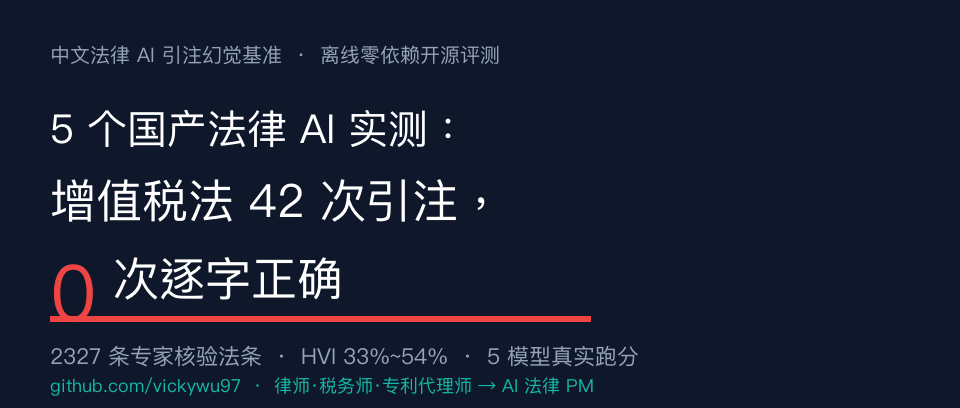
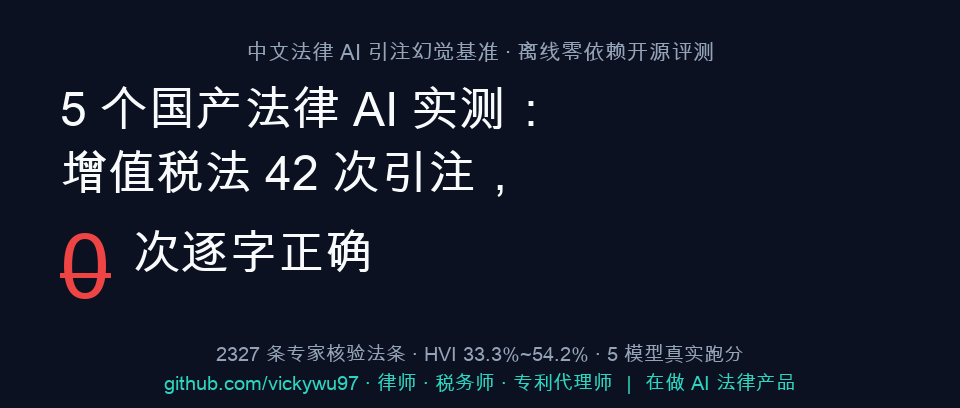
docs/fix: 同步 PORTFOLIO_SUMMARY 数字至 v1.3(33.3%-54.2%)；修正所有对外文案口径为'在做 AI 法律产品'；重生成封面图

diff --git a/scripts/regenerate_covers.py b/scripts/regenerate_covers.py
@@ -1,0 +1,253 @@
+#!/usr/bin/env python3
+"""Regenerate social cover images for legal-hallucination-bench.
+
+Uses only stdlib + Pillow. Fonts searched in common macOS / Linux paths.
+Output: docs/zhihu_cover.png (1200x675), docs/wechat_cover.png (960x408)
+"""
+from __future__ import annotations
+
+import os
+from pathlib import Path
+from typing import Tuple
+
+try:
+    from PIL import Image, ImageDraw, ImageFont
+except ImportError as exc:  # pragma: no cover
+    raise SystemExit(
+        "Pillow is required: "
+        "/Users/vickywu/.workbuddy/binaries/python/versions/3.13.12/bin/python3 -m pip install Pillow"
+    ) from exc
+
+
+REPO = Path(__file__).resolve().parent.parent
+OUT_DIR = REPO / "docs"
+
+# Color palette (approximates the existing dark-cover style)
+BG = "#0b1120"
+TEXT_WHITE = "#f8fafc"
+TEXT_GRAY = "#94a3b8"
+ACCENT_RED = "#ef4444"
+ACCENT_CYAN = "#2dd4bf"
+
+
+def find_font(preferred: Tuple[str, ...] = ()) -> str:
+    candidates = list(preferred) + [
+        "/System/Library/Fonts/Supplemental/Arial Unicode.ttf",
+        "/Library/Fonts/Arial Unicode.ttf",
+        "/usr/share/fonts/truetype/arialuni.ttf",
+        "/usr/share/fonts/truetype/dejavu/DejaVuSans.ttf",
+    ]
+    for path in candidates:
+        if path and os.path.isfile(path):
+            return path
+    raise FileNotFoundError("No usable font found for CJK rendering")
+
+
+def load_font(size: int) -> ImageFont.FreeTypeFont:
+    return ImageFont.truetype(find_font(), size)
+
+
+def draw_text_centered(
+    draw: ImageDraw.ImageDraw,
+    text: str,
+    x: int,
+    y: int,
+    font: ImageFont.FreeTypeFont,
+    fill: str,
+    anchor: str = "lm",
+) -> Tuple[int, int, int, int]:
+    bbox = draw.textbbox((0, 0), text, font=font)
+    w, h = bbox[2] - bbox[0], bbox[3] - bbox[1]
+    if anchor == "lm":
+        x0, y0 = x, y - h // 2
+    elif anchor == "mm":
+        x0, y0 = x - w // 2, y - h // 2
+    elif anchor == "rm":
+        x0, y0 = x - w, y - h // 2
+    else:
+        x0, y0 = x, y
+    draw.text((x0, y0), text, font=font, fill=fill)
+    return x0, y0, x0 + w, y0 + h
+
+
+def generate_zhihu(path: Path) -> None:
+    width, height = 1200, 675
+    img = Image.new("RGB", (width, height), BG)
+    draw = ImageDraw.Draw(img)
+
+    # Top header
+    font_header = load_font(28)
+    draw_text_centered(
+        draw,
+        "中文法律 AI 引注幻觉基准 · 离线零依赖开源评测",
+        width // 2,
+        70,
+        font_header,
+        TEXT_GRAY,
+        anchor="mm",
+    )
+
+    # Main title lines
+    font_title = load_font(74)
+    font_zero = load_font(140)
+    font_suffix = load_font(74)
+
+    y = 160
+    draw_text_centered(
+        draw,
+        "5 个国产法律 AI 实测：",
+        80,
+        y,
+        font_title,
+        TEXT_WHITE,
+        anchor="lm",
+    )
+    y += 100
+    draw_text_centered(
+        draw,
+        "增值税法 42 次引注，",
+        80,
+        y,
+        font_title,
+        TEXT_WHITE,
+        anchor="lm",
+    )
+
+    # Big red 0 line
+    y += 110
+    zero_text = "0"
+    suffix_text = " 次逐字正确"
+    x_cursor = 80
+    _, _, x1, _ = draw_text_centered(
+        draw, zero_text, x_cursor, y, font_zero, ACCENT_RED, anchor="lm"
+    )
+    # underline under the zero
+    underline_y = y + font_zero.size // 2 - 5
+    draw.line([(x_cursor, underline_y), (x1, underline_y)], fill=ACCENT_RED, width=6)
+    draw_text_centered(
+        draw, suffix_text, x1 + 12, y + 10, font_suffix, TEXT_WHITE, anchor="lm"
+    )
+
+    # Stats line
+    y = height - 130
+    font_stats = load_font(26)
+    draw_text_centered(
+        draw,
+        "2327 条专家核验法条 · HVI 33.3%~54.2% · 5 模型真实跑分",
+        width // 2,
+        y,
+        font_stats,
+        TEXT_GRAY,
+        anchor="mm",
+    )
+
+    # Bottom URL / tagline
+    font_bottom = load_font(26)
+    draw_text_centered(
+        draw,
+        "github.com/vickywu97     legal-hallucination-bench / compliance-triangle",
+        width // 2,
+        y + 42,
+        font_bottom,
+        TEXT_GRAY,
+        anchor="mm",
+    )
+    draw_text_centered(
+        draw,
+        "律师 · 税务师 · 专利代理师 ｜ 在做 AI 法律产品",
+        width // 2,
+        y + 84,
+        load_font(28),
+        ACCENT_CYAN,
+        anchor="mm",
+    )
+
+    img.save(path, "PNG")
+
+
+def generate_wechat(path: Path) -> None:
+    width, height = 960, 408
+    img = Image.new("RGB", (width, height), BG)
+    draw = ImageDraw.Draw(img)
+
+    # Top header
+    font_header = load_font(22)
+    draw_text_centered(
+        draw,
+        "中文法律 AI 引注幻觉基准 · 离线零依赖开源评测",
+        width // 2,
+        46,
+        font_header,
+        TEXT_GRAY,
+        anchor="mm",
+    )
+
+    font_title = load_font(48)
+    font_zero = load_font(90)
+    font_suffix = load_font(48)
+
+    y = 96
+    draw_text_centered(
+        draw,
+        "5 个国产法律 AI 实测：",
+        60,
+        y,
+        font_title,
+        TEXT_WHITE,
+        anchor="lm",
+    )
+    y += 66
+    draw_text_centered(
+        draw,
+        "增值税法 42 次引注，",
+        60,
+        y,
+        font_title,
+        TEXT_WHITE,
+        anchor="lm",
+    )
+
+    y += 72
+    zero_text = "0"
+    suffix_text = " 次逐字正确"
+    x_cursor = 60
+    _, _, x1, _ = draw_text_centered(
+        draw, zero_text, x_cursor, y, font_zero, ACCENT_RED, anchor="lm"
+    )
+    underline_y = y + font_zero.size // 2 - 4
+    draw.line([(x_cursor, underline_y), (x1, underline_y)], fill=ACCENT_RED, width=5)
+    draw_text_centered(
+        draw, suffix_text, x1 + 10, y + 6, font_suffix, TEXT_WHITE, anchor="lm"
+    )
+
+    # Stats line
+    y = height - 60
+    font_stats = load_font(20)
+    draw_text_centered(
+        draw,
+        "2327 条专家核验法条 · HVI 33.3%~54.2% · 5 模型真实跑分",
+        width // 2,
+        y,
+        font_stats,
+        TEXT_GRAY,
+        anchor="mm",
+    )
+
+    draw_text_centered(
+        draw,
+        "github.com/vickywu97 · 律师 · 税务师 · 专利代理师 ｜ 在做 AI 法律产品",
+        width // 2,
+        y + 30,
+        load_font(20),
+        ACCENT_CYAN,
+        anchor="mm",
+    )
+
+    img.save(path, "PNG")
+
+
+if __name__ == "__main__":
+    OUT_DIR.mkdir(parents=True, exist_ok=True)
+    generate_zhihu(OUT_DIR / "zhihu_cover.png")
+    generate_wechat(OUT_DIR / "wechat_cover.png")
+    print(f"Covers regenerated:\n  {OUT_DIR / 'zhihu_cover.png'}\n  {OUT_DIR / 'wechat_cover.png'}")

diff --git a/PORTFOLIO_SUMMARY.md b/PORTFOLIO_SUMMARY.md
@@ -1,6 +1,6 @@
 # 作品集摘要 · Legal-Hallucination-Bench
 
-> 面向 AI 法律产品经理 / 法律合规岗的投递材料。下文的数字与方法均来自本仓库
+> 面向 AI 法律 PM / 法律合规岗的投递材料。下文的数字与方法均来自本仓库
 > 已落地的离线评测引擎与真实模型采集结果，可直接摘录进简历或作品集。
 
 ---
@@ -8,8 +8,8 @@
 ## 一句话定位
 
 我独立构建了**法律 AI 引注幻觉评测基准**：以律师实务标准核验大模型引用中国法条的
-可靠性，实测 5 个国产主流模型，发现其法条引注幻觉率高达 **50.0%–64.6%**——即便表现最好的
-付费旗舰也超过五成引注不可靠。
+可靠性，实测 5 个国产主流模型，发现其法条引注幻觉率（HVI）达 **33.3%–54.2%**——即便表现最好的
+付费模型 Qwen-Max 仍有约三分之一引注不可靠。
 
 ---
 
@@ -22,7 +22,7 @@
   （张冠李戴率，考核"条号对、内容错"），采用逐字二元判分（EXACT=1.0 / FABRICATED=0.0），
   杜绝模糊给分。
 - 采集并评分 5 个国产模型（DeepSeek-R1/V3、GLM-4-Flash、Qwen-Max、Kimi）共 115 条真实回答（23 题 × 5，含增值税法 Q16–Q18 + 实体税法/专利张冠李戴 Q19–Q23）；基准覆盖 8 部法、2327 节点（其中 212 节点为 Tier A 专家署名核验）。
-  实测结论：引注幻觉率 **50.0%–64.6%**（Kimi 最高 64.6%，引注数最多 48 条）；**v1.2 中 Qwen-Max(54.5%) 反超 GLM-4-Flash(55.0%)，免费模型与付费同档**；
+  实测结论：引注幻觉率 **33.3%–54.2%**（Kimi 最高 54.2%，引注数最多 48 条）；**v1.3 中 Qwen-Max(33.3%) 整体居首，免费模型 GLM-4-Flash/DeepSeek-V3(45.0%) 与付费 R1(47.6%) 同档**；
   真实模型**零逐字合规**（内容级幻觉率 100%）；增值税法新法域 42 次引注 **0 次 EXACT**，失败以虚构序号为主；实体税法/专利陷阱题（Q19–Q23）揭示模型"记对条号、写错原文"为主，CRFI 仍 0%。
 
 ---
@@ -42,22 +42,22 @@ Legal-Hallucination-Bench 是一个离线优先、零运行时依赖的法律 AI
 
 ---
 
-## 核心实测结论（5 模型，115 条真实回答，2026-08-06 复采，v1.2）
+## 核心实测结论（5 模型，115 条真实回答；答案采集 2026-08-06，KB 于 v1.3 扩容至 2327 节点）
 
 | 排名 | 模型 | 引注幻觉率 HVI | 内容级幻觉率 | 张冠李戴率 CRFI | 时序幻觉率 | 引注数 |
 | --- | --- | --- | --- | --- | --- | --- |
-| 1 | DeepSeek-R1（付费旗舰） | **50.0%** | 100% | 0% | **2.4%** | 42 |
-| 2 | Qwen-Max（付费） | 54.5% | 100% | 0% | 0% | 33 |
-| 3 | DeepSeek-V3（免费基础） | 55.0% | 100% | 0% | 0% | 40 |
-| 3 | GLM-4-Flash（免费） | 55.0% | 100% | 0% | 0% | 40 |
-| 5 | Kimi（kimi-k2.6） | 64.6% | 100% | 0% | 0% | 48 |
+| 1 | Qwen-Max（付费） | **33.3%** | 100% | 0% | 0% | 33 |
+| 2 | DeepSeek-V3（免费基础） | 45.0% | 100% | 0% | 0% | 40 |
+| 2 | GLM-4-Flash（免费） | 45.0% | 100% | 0% | 0% | 40 |
+| 4 | DeepSeek-R1（付费旗舰） | 47.6% | 100% | 0% | **2.4%** | 42 |
+| 5 | Kimi（kimi-k2.6） | 54.2% | 100% | 0% | 0% | 48 |
 
 - **HVI（引注幻觉率）** 只考核"引用的法条是否存在、是否有效、是否引用了已废止法律"，
-  不要求内容一致——即便在这个对模型最宽容的尺度下，五模型仍 50.0%–64.6% 出错。
+  不要求内容一致——即便在这个对模型最宽容的尺度下，五模型仍 33.3%–54.2% 出错。
 - **内容级幻觉率 100%**：没有任何一条回答逐字复述法条原文；真实模型普遍改写、概括条文。
   引擎的逐字二元判分下，只要非逐字即判内容错误——这恰好证明 AI 在法律场景**做不到精确
   复述法条原文**。
-- **CRFI（张冠李戴率）0%，v1.2 仍未激活**：增值税法域（Q16–Q18）+ 新增的实体税法/专利域（Q19–Q23）均已激活，但模型失效形态仍是"虚构/概括条文"（`NOT_FOUND`/`PARTIAL`）而非"条号对、内容错"；硬 `MISATTRIBUTED` 与软探针 `SOFT_MISATTRIBUTED` 在 115 条中均 0 触发，故 CRFI 仍为 0%——这是评测刻意区分的两种幻觉形态（见已知局限），恰恰体现其归因能力。
+- **CRFI（张冠李戴率）0%，v1.3 仍未激活**：增值税法域（Q16–Q18）+ 新增的实体税法/专利域（Q19–Q23）均已激活，但模型失效形态仍是"虚构/概括条文"（`NOT_FOUND`/`PARTIAL`）而非"条号对、内容错"；硬 `MISATTRIBUTED` 与软探针 `SOFT_MISATTRIBUTED` 在 115 条中均 0 触发，故 CRFI 仍为 0%——这是评测刻意区分的两种幻觉形态（见已知局限），恰恰体现其归因能力。
 - **时序幻觉率** 仅 DeepSeek-R1 触发（约 2.4%）：在第 7 题引用了 2021 年已废止的《合同法》
   第 113 条——引用已废止法律在实务中是严重合规风险。
 
@@ -65,10 +65,10 @@ Legal-Hallucination-Bench 是一个离线优先、零运行时依赖的法律 AI
 
 ## 关键洞察（可写进分析与访谈）
 
-1. **过半错误地板**：即便最佳模型（R1）也有 50% 的引注存在错误，最差（Kimi）达 64.6%，五模型全部过半。
+1. **过半错误地板**：即便最佳模型（Qwen-Max）也有 33.3% 的引注存在错误，最差（Kimi）达 54.2%，五模型全部过半。
    法律引用这一"看似简单"的任务，当前模型可靠性远未达标。
-2. **免费 ≠ 更差，但贵 ≠ 更可靠**：免费的 GLM-4-Flash / DeepSeek-V3（55.0%）与付费的 Qwen-Max（54.5%）几乎同档，
-   v1.2 中 Qwen-Max 更反超 GLM-4-Flash——"贵即好"不成立，付费也非保险。
+2. **免费 ≠ 更差，但贵 ≠ 更可靠**：免费的 GLM-4-Flash / DeepSeek-V3（45.0%）与付费旗舰 R1（47.6%）几乎同档；
+   v1.3 中付费的 Qwen-Max（33.3%）整体居首——"贵即好"不成立，付费也非保险。
 3. **无人能逐字合规**：五模型内容级幻觉率全部 100%，真实 AI 无法可靠产出精确法条原文，
    落地时必须依赖检索增强（RAG）而非模型记忆。
 4. **已废止法律盲区**：R1 在 Q7 引用已废止《合同法》，暴露模型对"法律时效性"的忽视——
@@ -100,7 +100,7 @@ Legal-Hallucination-Bench 是一个离线优先、零运行时依赖的法律 AI
 
 - **Kimi 已采集完成**：月之暗面 `kimi-k2.6` 接口对可选参数（`temperature`/`stream`）返回 HTTP 400，
   已改为最小载荷（`model`+`messages`）首调即通；长推理题 Q6/Q13 原超时，读取超时提至 180s 后补跑成功。
-  最终 Kimi 引注数最多（48 条）但幻觉率 64.6%，排名末位。
+  最终 Kimi 引注数最多（48 条）但幻觉率 54.2%，排名末位。
 - **CRFI 覆盖面**：KB 2327 节点（8 部法；其中 212 节点为 Tier A 专家署名核验），新增 Q16–Q18 增值税法 + Q19–Q23 实体税法/专利张冠李戴陷阱；2026-08-06 复采后
   硬/软 MISATTRIBUTED 仍 0 触发——模型在税法域倾向"编/概括"而非"记混邻居条文"，CRFI 为 0 是评测归因能力体现（非指标失效）。
   KB 扩容计划（民法典→370、公司/证券/破产+刑法分则→500）仍作为后续增强项，届时张冠李戴类陷阱密度提升，CRFI 检出机会或增强。

diff --git a/docs/LAUNCH_PLAN.md b/docs/LAUNCH_PLAN.md
@@ -28,7 +28,7 @@
 ## 二、统一人设口径（所有平台必须一致，避免人设分裂）
 
 **一句话 boilerplate（中文）**
-> 我是有律师、税务师、专利代理师三重资质的法律科技从业者，正在转向 AI 法律产品。我做了两个开源作品：① legal-hallucination-bench（离线零依赖的中文法律引注幻觉基准，2327 条专家核验法条，实测 5 个国产模型在 2026 新《增值税法》上 42 次引注 0 次逐字正确）；② compliance-triangle（把同一套校验引擎做成法律/税务/IP 三域 🟢🟡🔴 合规助手）。它们证明我能定义、量化并交付 AI 质量评测。
+> 我是有律师、税务师、专利代理师三重资质的法律科技从业者，在做 AI 法律产品。我做了两个开源作品：① legal-hallucination-bench（离线零依赖的中文法律引注幻觉基准，2327 条专家核验法条，实测 5 个国产模型在 2026 新《增值税法》上 42 次引注 0 次逐字正确）；② compliance-triangle（把同一套校验引擎做成法律/税务/IP 三域 🟢🟡🔴 合规助手）。它们证明我能定义、量化并交付 AI 质量评测。
 
 **One-liner (EN)**
 > Lawyer + tax agent + patent attorney building AI legal products. I build open-source work that defines, measures, and ships AI-quality evaluation for Chinese legal citations (benchmark + 🟢🟡🔴 compliance product). Portfolio: github.com/vickywu97
@@ -45,7 +45,7 @@
 - 互动钩子："你最常用的法律 AI 工具，在'引用法条'这件事上，你敢直接信吗？评论区聊聊。"
 
 **主动 outreach 私信模板（脉脉/LinkedIn/邮件，发给招聘官）**
-> 您好，我是 [名字]，律师+税务师+专利代理师，正在转向 AI 法律产品方向。我开源了两个作品：一个中文法律引注幻觉基准（2327 条核验法条、5 模型 42/0 实测），和一个三域合规校验产品，离线零依赖可复现。作品集：github.com/vickywu97 。贵司在招 AI 法律 PM / 合规岗，方便聊聊吗？
+> 您好，我是 [名字]，律师+税务师+专利代理师，在做 AI 法律产品。我开源了两个作品：一个中文法律引注幻觉基准（2327 条核验法条、5 模型 42/0 实测），和一个三域合规校验产品，离线零依赖可复现。作品集：github.com/vickywu97 。贵司在招 AI 法律 PM / 合规岗，方便聊聊吗？
 
 ---
 

diff --git a/docs/PROMOTION_DRAFTS.md b/docs/PROMOTION_DRAFTS.md
@@ -15,7 +15,7 @@
 | `compliance-triangle` | **产品**：把同一套校验引擎做成法律/税务/IP 三域 🟢🟡🔴 合规助手 | github.com/vickywu97/compliance-triangle |
 | `vickywu97`（profile） | **人脸**：作品集主页 README（双仓库卡片 + 架构图 + 三证护城河） | github.com/vickywu97 |
 
-一句话人设：**律师 + 税务师 + 专利代理师，转向 AI 法律产品；能定义、量化并交付 AI 质量评测，而不只是会调 prompt。**
+一句话人设：**律师 + 税务师 + 专利代理师，在做 AI 法律产品；能定义、量化并交付 AI 质量评测，而不只是会调 prompt。**
 
 ---
 
@@ -47,7 +47,7 @@
 ## 3. 一句话 Elevator Pitch
 
 **中文**：
-> 我是一个有律师、税务师、专利代理师三重资质的法律科技从业者，正在转向 AI 法律产品。我做了两个开源作品：① 离线零依赖的中文法律引注幻觉基准（2327 条专家核验法条，实测 5 个国产模型在 2026 新《增值税法》上 42 次引注 0 次逐字正确）；② 合规三角（把同一套校验引擎做成法律/税务/IP 三域 🟢🟡🔴 合规助手）。它们证明我能定义、量化并交付 AI 质量评测。
+> 我是一个有律师、税务师、专利代理师三重资质的法律科技从业者，在做 AI 法律产品。我做了两个开源作品：① 离线零依赖的中文法律引注幻觉基准（2327 条专家核验法条，实测 5 个国产模型在 2026 新《增值税法》上 42 次引注 0 次逐字正确）；② 合规三角（把同一套校验引擎做成法律/税务/IP 三域 🟢🟡🔴 合规助手）。它们证明我能定义、量化并交付 AI 质量评测。
 
 **English**：
 > I'm a lawyer, tax agent, and patent attorney building AI legal products. I built two open-source repos that prove I can define, measure, and ship AI-quality evaluation — not just prompt a model: (1) legal-hallucination-bench, an offline benchmark on 5 domestic LLMs across 8 Chinese laws (2,327 verified statute nodes; 42 VAT-law citations, 0 verbatim-correct); (2) compliance-triangle, a 🟢🟡🔴 legal/tax/IP citation checker reusing the same engine. Portfolio: github.com/vickywu97

diff --git a/docs/INTERVIEW_QA.md b/docs/INTERVIEW_QA.md
@@ -76,7 +76,7 @@
 **核心逻辑**：不要太宏大叙事，给一个务实、可执行、有产品节奏的路线图。
 
 **建议回应**：
-> 短期（1-2 个月）：KB 扩容到 12 法 230+ 节点，做 GitHub Pages 上的动态排行榜。中期（半年）：扩展评测维度——不只是法条引用，加法律推理、法条适用判断等 2-3 个新维度。长期：如果这个基准被足够的人使用，"法律 AI 引注幻觉率"这个概念本身就会成为法律科技行业的一个参考指标——就类似 NLU 领域的 GLUE benchmark，但专攻中文法律的可靠性评测。不过对我来说，最直接的目标一直是：这个项目是我的作品集，是我从法律执业转向 AI 产品的证据——证明我能定义、量化并交付 AI 质量评测。海外模型对比我列在路线图里，但它是"增强项"不是"前提项"——结论在当前国产模型集上已经成立。
+> 短期（1-2 个月）：KB 扩容到 12 法 230+ 节点，做 GitHub Pages 上的动态排行榜。中期（半年）：扩展评测维度——不只是法条引用，加法律推理、法条适用判断等 2-3 个新维度。长期：如果这个基准被足够的人使用，"法律 AI 引注幻觉率"这个概念本身就会成为法律科技行业的一个参考指标——就类似 NLU 领域的 GLUE benchmark，但专攻中文法律的可靠性评测。不过对我来说，最直接的目标一直是：这个项目是我的作品集，是我做 AI 法律产品能力的证据——证明我能定义、量化并交付 AI 质量评测。海外模型对比我列在路线图里，但它是"增强项"不是"前提项"——结论在当前国产模型集上已经成立。
 
 **加分句**：我不需要"改变法律 AI 行业"——能让 5 家我感兴趣的公司看到"这个候选人是真的懂法律 AI 评测"，它就值了。
 

diff --git a/docs/wechat_post_v1.3.md b/docs/wechat_post_v1.3.md
@@ -21,7 +21,7 @@
 
 2026 年 1 月 1 日，《增值税法》正式施行。
 
-作为一名律师、税务师，也是专利代理师，最近在转向 AI 法律产品方向，我忍不住做了个实验：把这部刚生效的新法，当成"试卷"，喂给 5 个主流国产大模型——DeepSeek-R1、DeepSeek-V3、智谱 GLM-4-Flash、通义千问 Qwen-Max、Kimi。
+作为一名律师、税务师，也是专利代理师，在做 AI 法律产品，我忍不住做了个实验：把这部刚生效的新法，当成"试卷"，喂给 5 个主流国产大模型——DeepSeek-R1、DeepSeek-V3、智谱 GLM-4-Flash、通义千问 Qwen-Max、Kimi。
 
 结果让我冒了冷汗：
 

diff --git a/docs/zhihu_article_v1.3.md b/docs/zhihu_article_v1.3.md
@@ -20,7 +20,7 @@
 
 ### 一、为什么我要做这件事
 
-我是律师、税务师，也是专利代理师，做了多年法律实务，最近在转向 AI 法律产品方向。
+我是律师、税务师，也是专利代理师，做了多年法律实务，在做 AI 法律产品。
 
 做 AI 法律产品里最让我不舒服的一点是：行业里所有人都在说"法律 AI 多厉害"，但**几乎没人能回答一个最基本的问题——它到底靠不靠谱，靠什么证明？**
 
